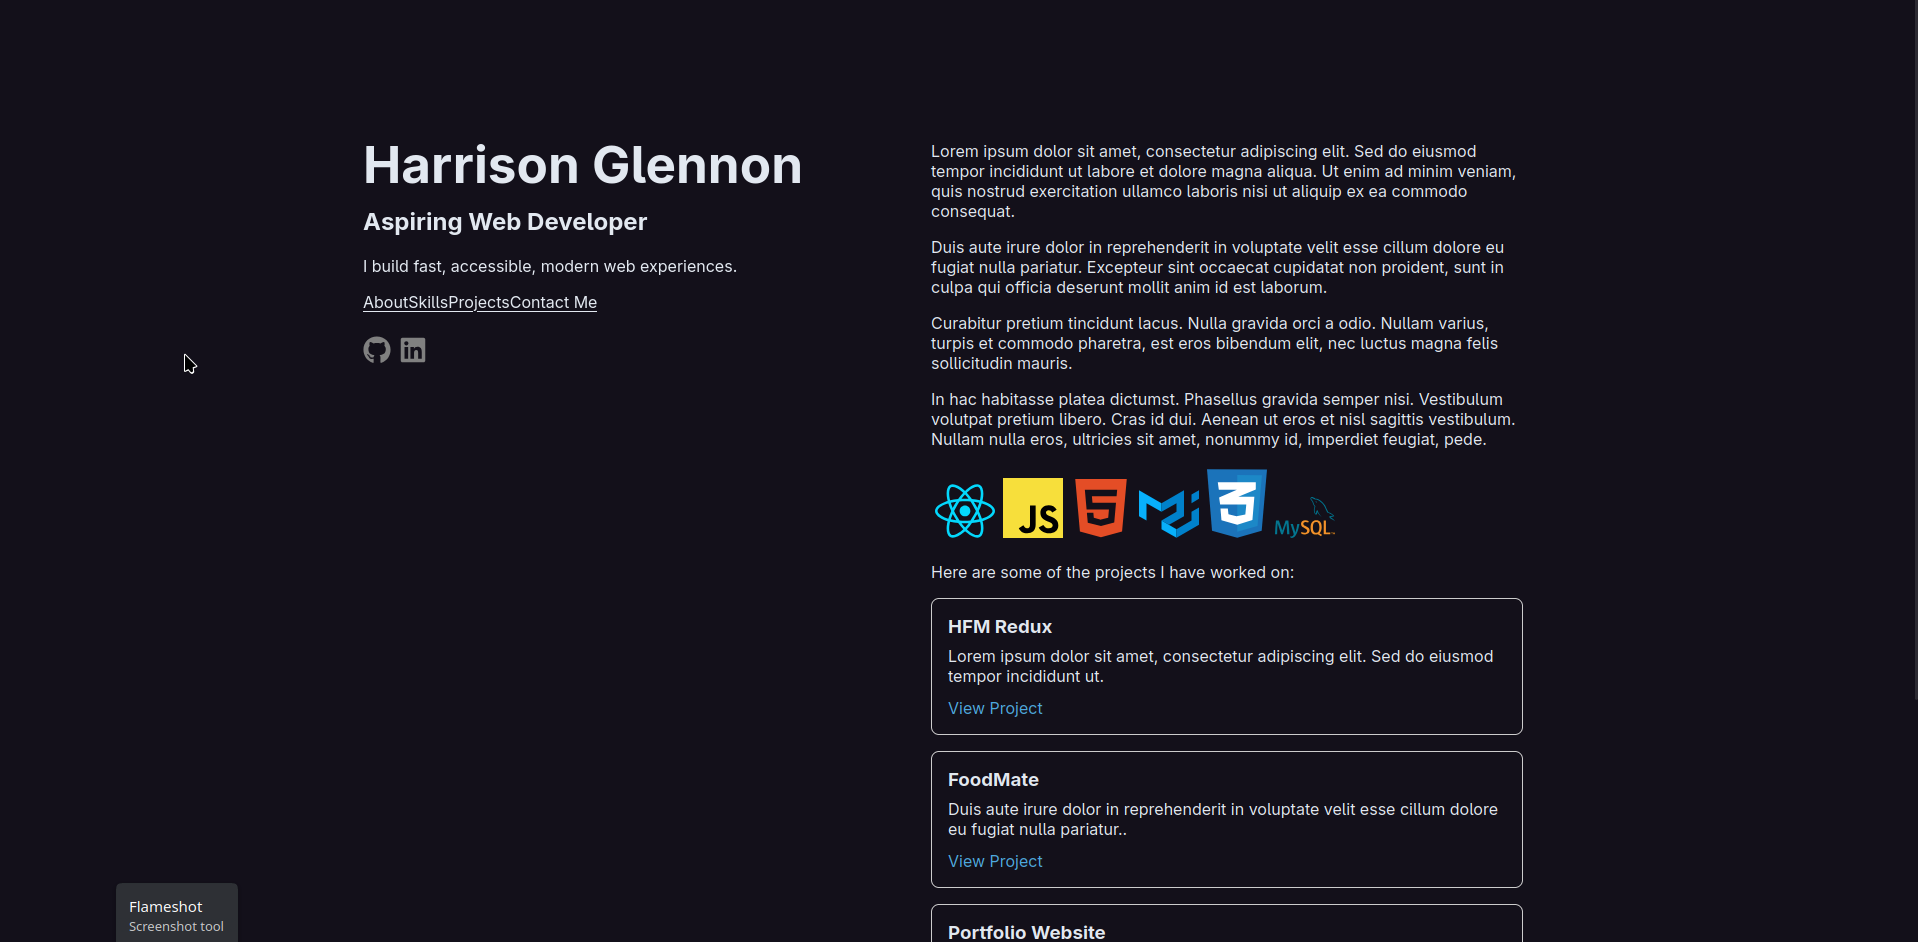
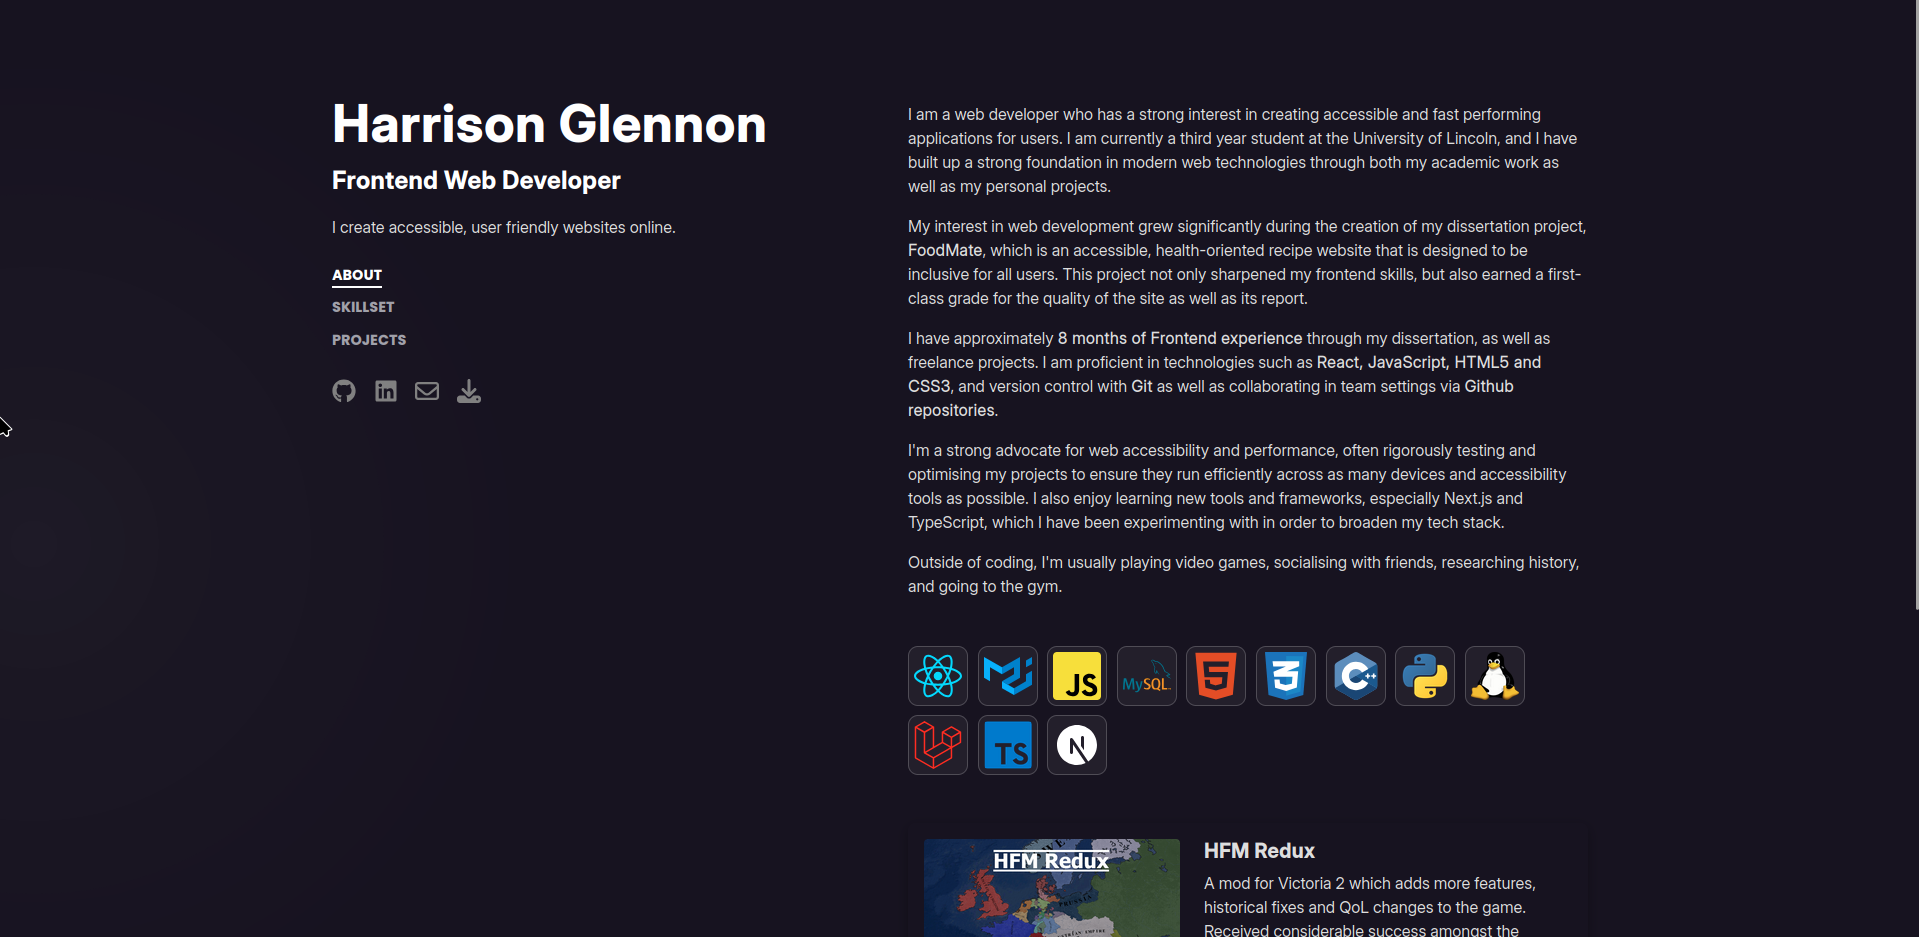
updated project cards

diff --git a/src/Content.jsx b/src/Content.jsx
@@ -3,6 +3,7 @@ import ProjectCard from './ProjectCard';
 import HFMReduxImg from './assets/HFM_Redux.png';
 import FoodMateImg from './assets/FoodMate.jpg';
 import PortfolioImg from './assets/Portfolio.png';
+import { HiOutlineDownload, HiStar } from "react-icons/hi";
 
 export default function Content() {
   return (
@@ -40,24 +41,44 @@ export default function Content() {
         <div className="mobile-only">
           <h2>PROJECTS</h2>
         </div>
-        <ProjectCard
-          title="HFM Redux"
-          description="Duis aute irure dolor in reprehenderit in voluptate velit esse cillum dolore eu fugiat nulla pariatur.."
-          link="https://www.moddb.com/mods/hfm-redux"
-          image = {HFMReduxImg}
-        />
-        <ProjectCard
-          title="FoodMate"
-          description="Duis aute irure dolor in reprehenderit in voluptate velit esse cillum dolore eu fugiat nulla pariatur.."
-          link="https://foodmate.dev"
-          image = {FoodMateImg}
-        />
-        <ProjectCard
-          title="Portfolio Website"
-          description="In hac habitasse platea dictumst. Phasellus gravida semper nisi. Vestibulum volutpat pretium libero. Cras id dui. Aenean ut eros et nisl sagittis vestibulum."
-          link="https://hglennon.dev"
-          image = {PortfolioImg}
-        />
+        <div className='project-card-wrapper'>
+          <ProjectCard
+            title="HFM Redux"
+            description="A mod for Victoria 2 which adds more features, historical fixes and QoL changes to the game. Received considerable success amongst the modding community for its new features. "
+            link="https://www.moddb.com/mods/hfm-redux"
+            image = {HFMReduxImg}
+            meta = {
+              <>
+                <HiOutlineDownload size={16}/>
+                <span className="project-span">4.6k+ downloads</span>
+              </>
+            }
+          />
+          <ProjectCard
+            title="FoodMate"
+            description="An accessible, health-oriented recipe search website powered by React, MUI, and Edamam API. Made as part of a dissertation during my studies at the university of Lincoln."
+            link="https://foodmate.dev"
+            image = {FoodMateImg}
+            meta = {
+              <>
+                <HiStar size={16}/>
+                <span className="project-span">1</span>
+              </>
+            }
+          />
+          <ProjectCard
+            title="Portfolio Website"
+            description="A personal website that was created to demonstrate my current progress in web development and technologies I have learnt so far, and you're looking at it right now!"
+            link="https://hglennon.dev"
+            image = {PortfolioImg}
+            meta = {
+              <>
+                <HiStar size={16}/>
+                <span className="project-span">1</span>
+              </>
+            }
+          />
+        </div>
       </section>
     </main>
   );

diff --git a/src/ProjectCard.jsx b/src/ProjectCard.jsx
@@ -1,6 +1,6 @@
 import { useEffect } from 'react';
 
-export default function ProjectCard({ title, description, link, image }) {
+export default function ProjectCard({ title, description, link, image, meta }) {
   const handleMouseEnter = () => {
     const cursor = document.querySelector('.custom-cursor');
     if (cursor) {
@@ -30,6 +30,11 @@ export default function ProjectCard({ title, description, link, image }) {
       <div className="project-content">
         <h3 className="project-title">{title}</h3>
         <p className="project-description">{description}</p>
+        {meta && (
+          <div className="project-meta">
+            {meta}
+          </div>
+        )}
       </div>
     </a>
   );

diff --git a/src/main.css b/src/main.css
@@ -390,7 +390,6 @@ form button:hover {
   flex-wrap: wrap;
   gap: 0.6rem;
   margin-top: 2rem;
-  cursor: pointer;
 }
 
 .tech-icon-wrapper {
@@ -516,4 +515,26 @@ form button:hover {
   font-size: 1rem;
   line-height: 1.5;
   margin: 0;
+}
+
+.project-card-wrapper:hover .project-card {
+  opacity: 0.4;
+  transition: opacity 0.3s ease;
+}
+
+.project-card-wrapper:hover .project-card:hover {
+  opacity: 1 !important;
+}
+
+.project-meta {
+  display: flex;
+  align-items: center;
+  gap: 0.27rem;
+  margin-top: 1rem;
+  font-size: 0.875rem;
+  color: #a1a1aa;
+}
+
+.project-span {
+  margin-top: 0.05rem;
 }
